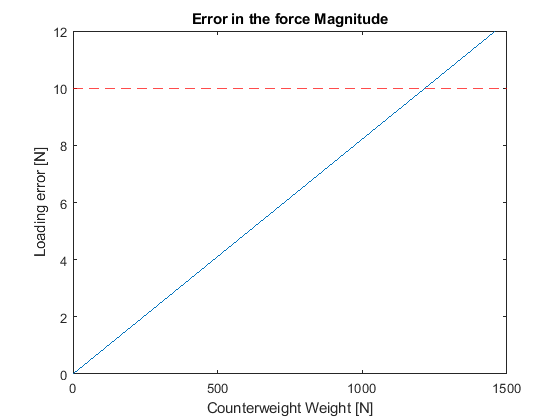
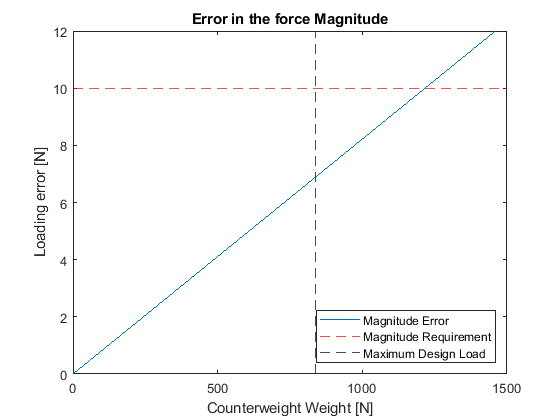
updated Load Magnitude

Changed region(s): [[0.5464, 0.7429, 0.8804, 0.8667], [0.5464, 0.7429, 0.5768, 0.8048]]

diff --git a/closed_loop_analysis.m b/closed_loop_analysis.m
@@ -109,7 +109,9 @@ figure
 plot(F, LME)
 yline(10,'--r')
 ylim([0, 12])
+xline(1112.06/(2*sind(setpoint)),'--k')
 title('Error in the force Magnitude')
+legend('Magnitude Error', 'Magnitude Requirement', 'Maximum Design Load', 'Location', 'SE')
 ylabel('Loading error [N]')
 xlabel('Counterweight Weight [N]')
 
